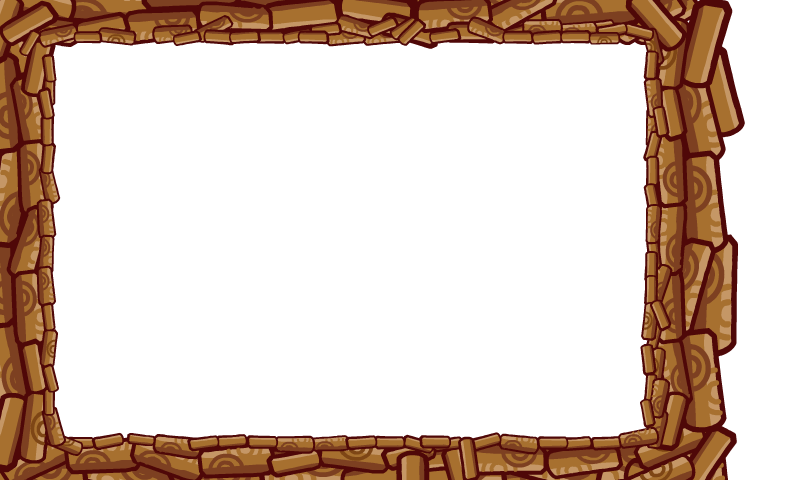
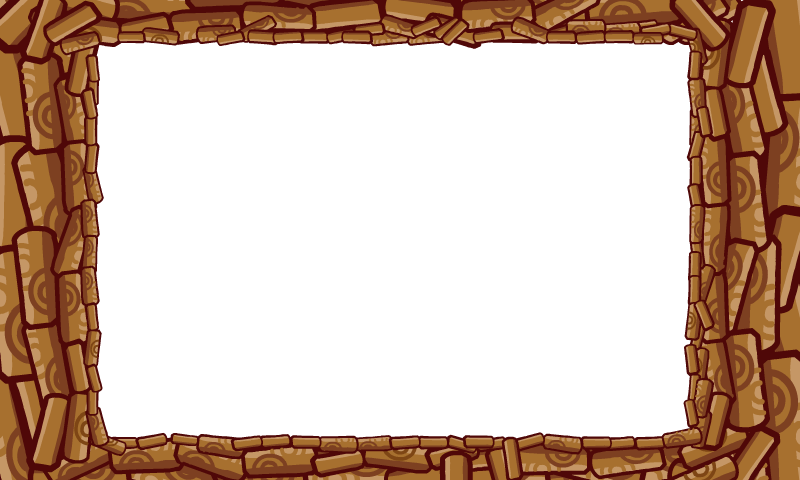
center background

diff --git a/src/cz/sparko/Bugmaze/GameField.java b/src/cz/sparko/Bugmaze/GameField.java
@@ -69,7 +69,7 @@ public class GameField {
         background.setZIndex(99);
         scene.attachChild(background);
 
-        int startX = 60;
+        int startX = (Game.CAMERA_WIDTH - (GameField.FIELD_SIZE_X * Block.SIZE)) / 2;
         int startY = (Game.CAMERA_HEIGHT - (GameField.FIELD_SIZE_Y * Block.SIZE)) / 2;
         blocks = new Block[GameField.FIELD_SIZE_X][GameField.FIELD_SIZE_Y];
         Random rnd = new Random();
@@ -93,7 +93,7 @@ public class GameField {
     }
 
     public void refreshField() {
-        int startX = 60;
+        int startX = (Game.CAMERA_WIDTH - (GameField.FIELD_SIZE_X * Block.SIZE)) / 2;
         int startY = (Game.CAMERA_HEIGHT - (GameField.FIELD_SIZE_Y * Block.SIZE)) / 2;
         refreshField = false;
         for (int x = 0; x < GameField.FIELD_SIZE_X; x++) {
